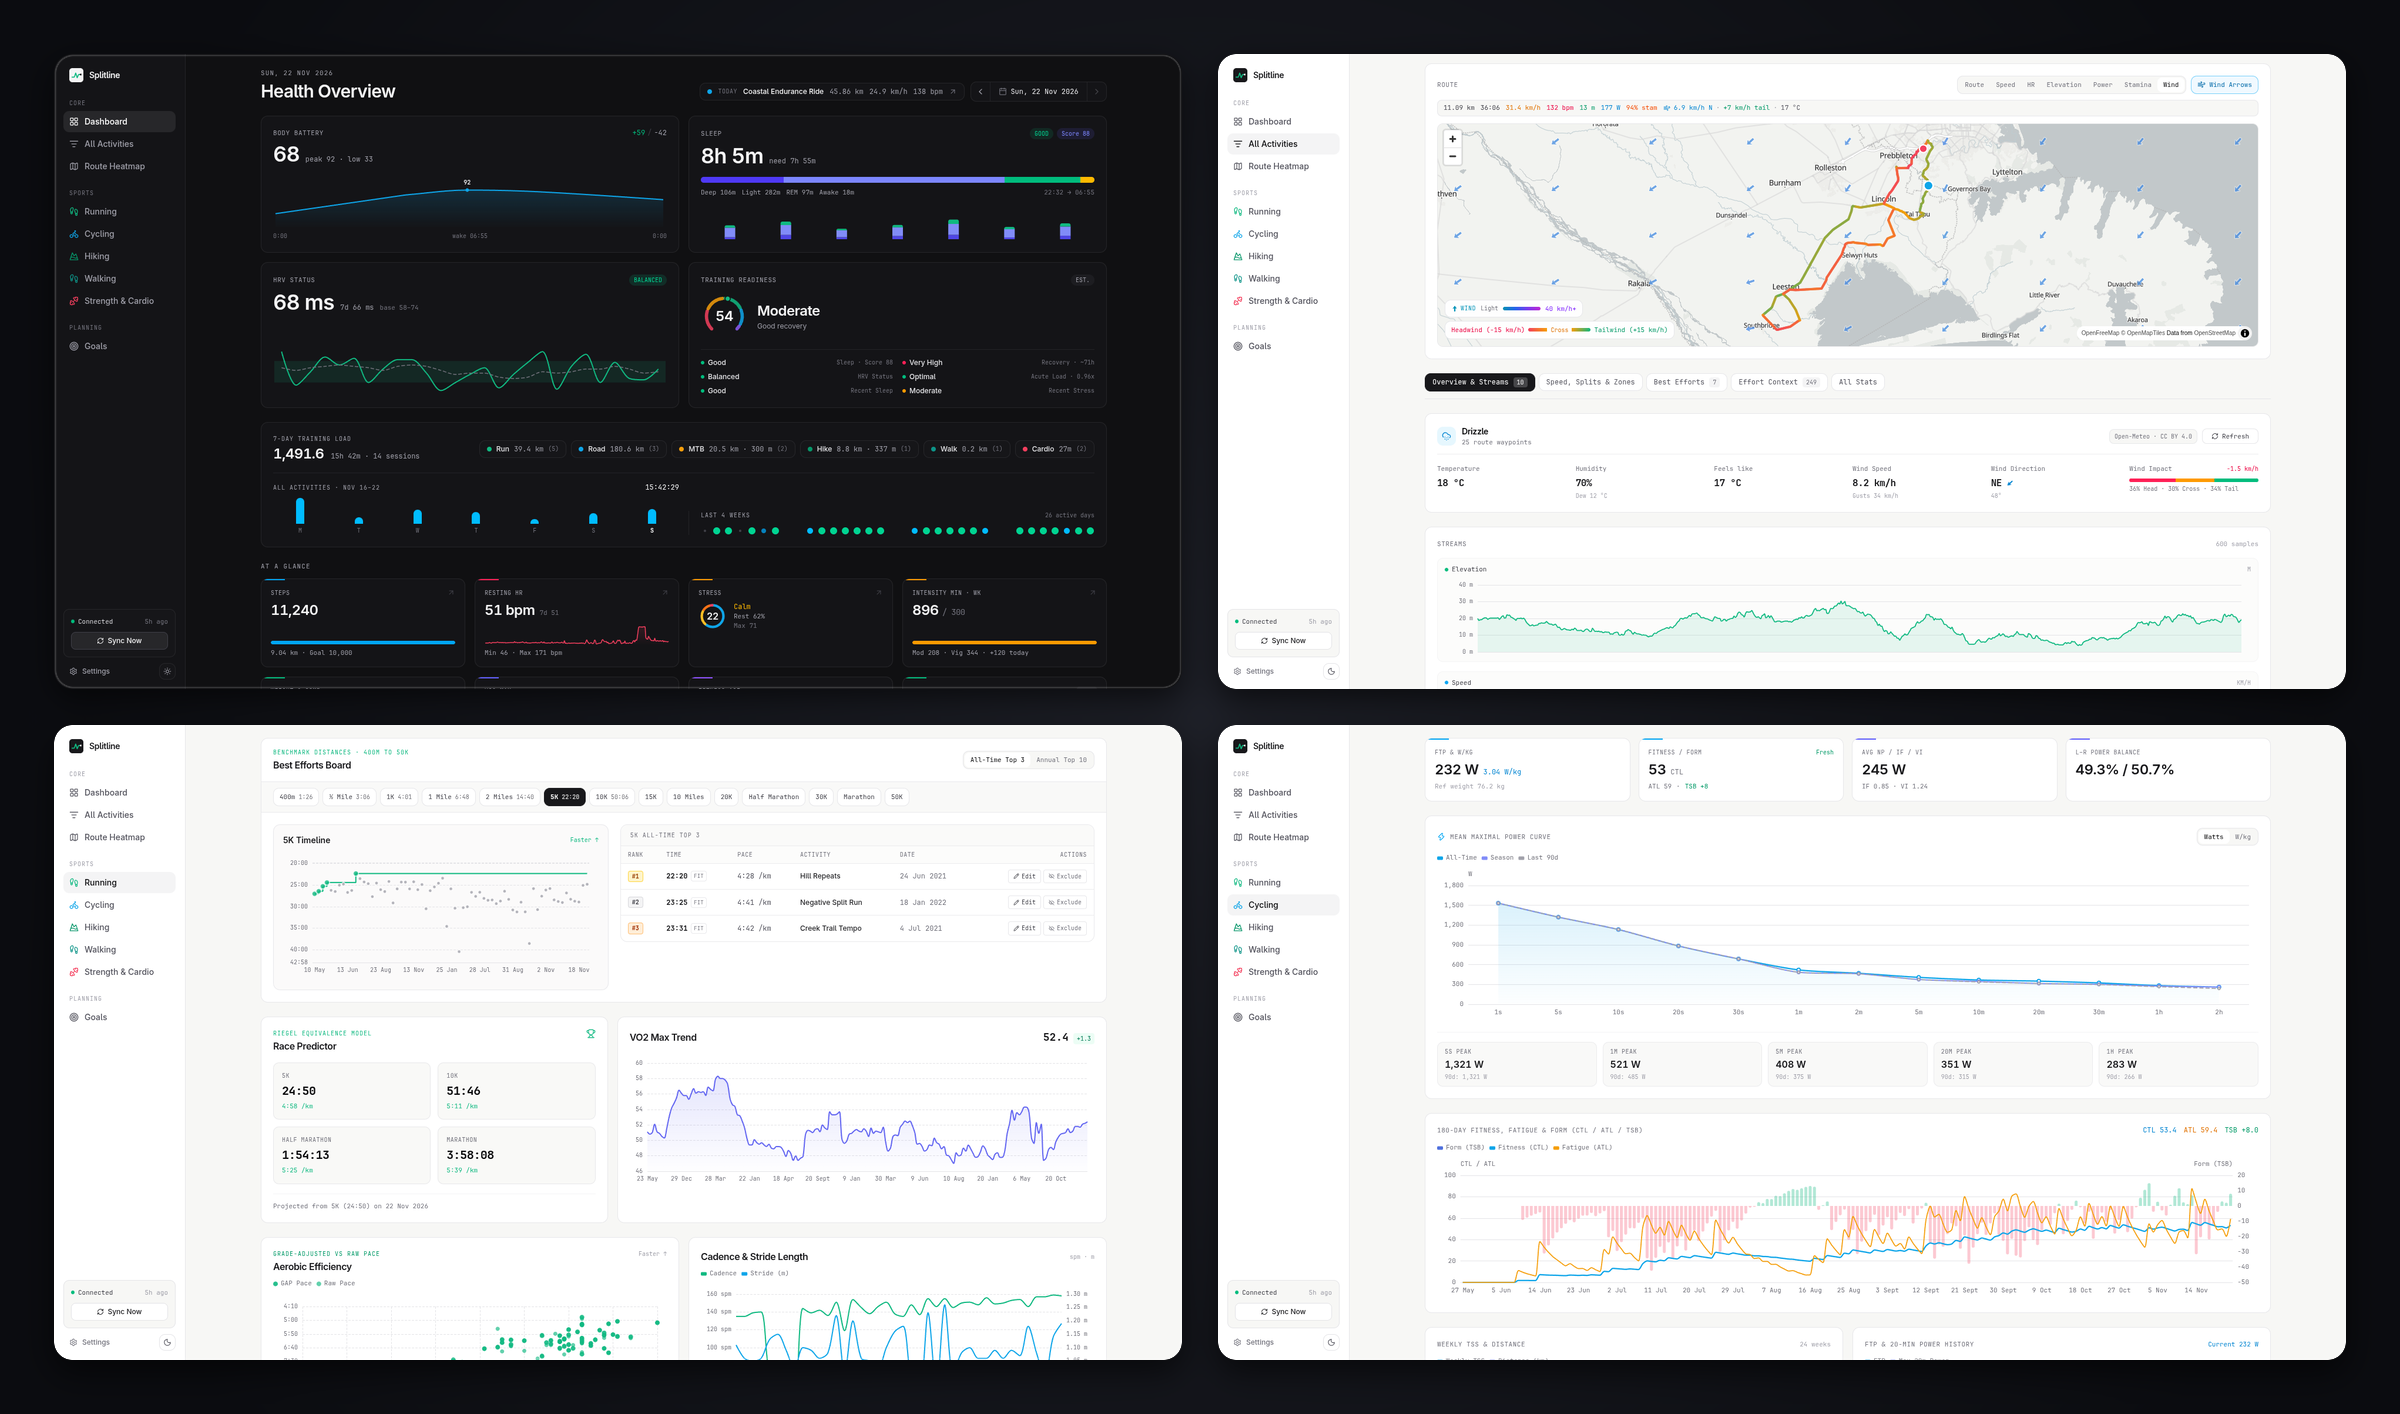
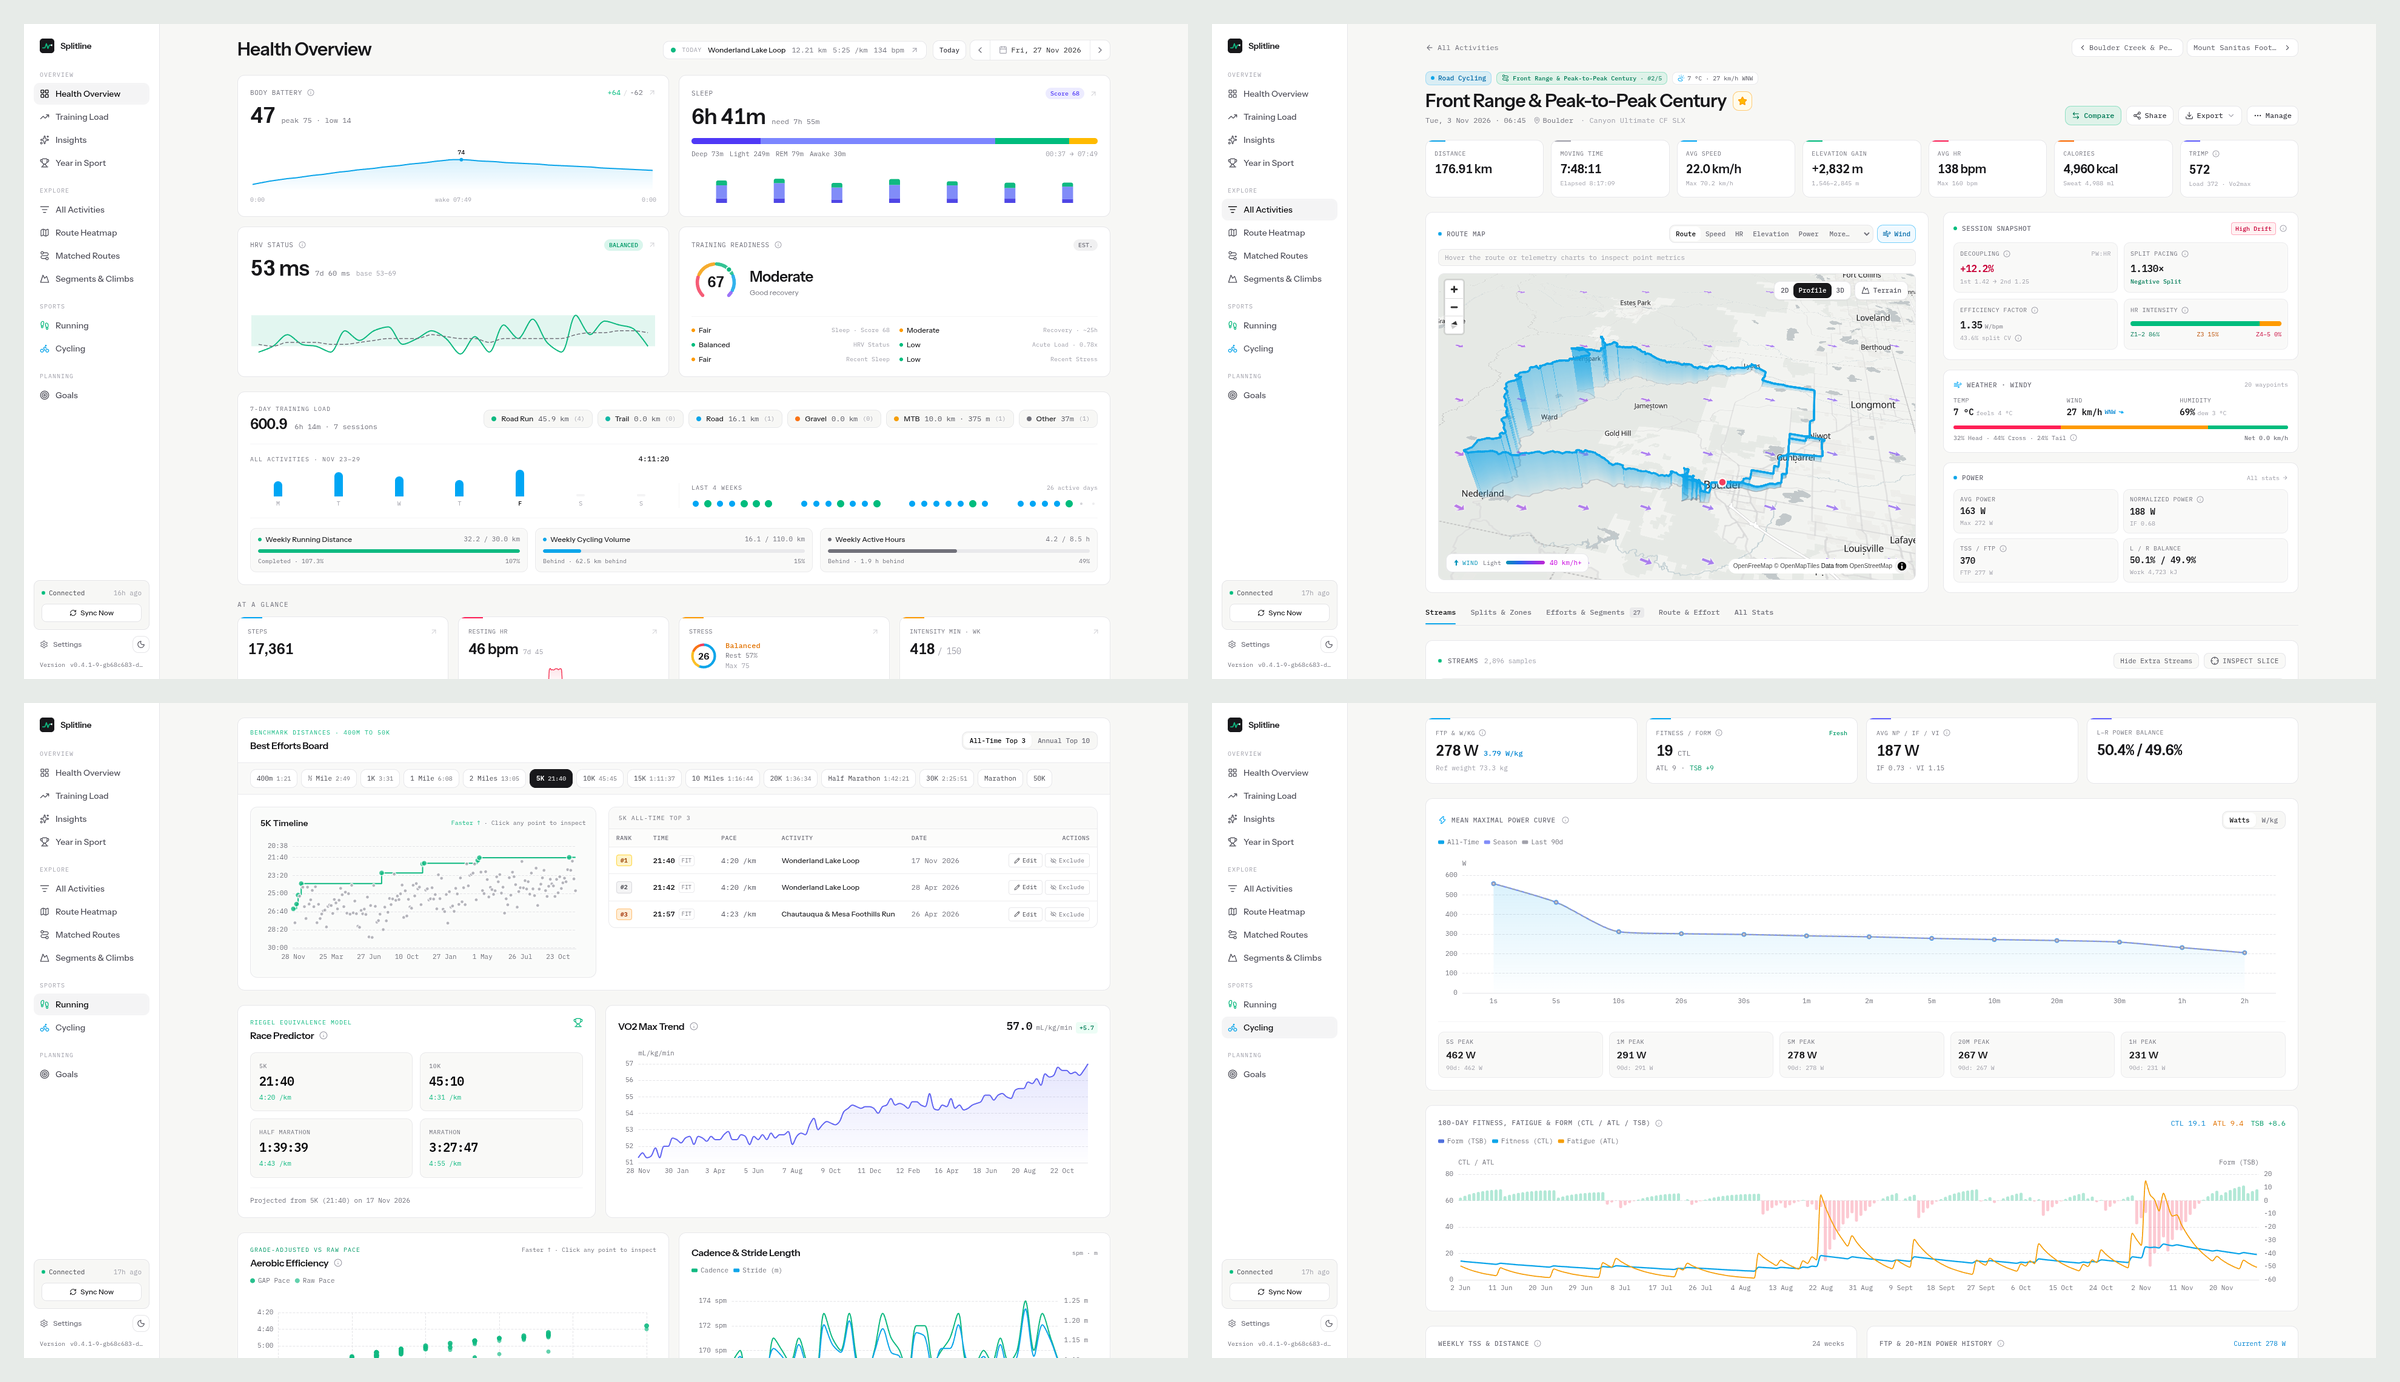
docs(screenshots): replace personal screenshots with Boulder demo captures

diff --git a/docs/screenshots/README.md b/docs/screenshots/README.md
@@ -1,93 +1,153 @@
 # Screenshots
 
-All screenshots below were captured at `1920×1080` using randomized demo health and activity data.
+Screenshots are captured at `1920×1080` against the synthetic **Boulder, Colorado** demo database built by `php artisan demo:seed`. It uses real OpenStreetMap routes, real terrain elevation, real historical weather, and physics-based telemetry, and contains no personal data. The hero collage (`00-hero.png`) is the image featured in the root README.
 
-## Overview & Daily Health
+## Overview & Health
 
-### Health Overview (Light)
+### Health Overview — Light
 
-![Health Overview (Light)](01-dashboard.png)
+![Health Overview — In Focus bento grid and 7-day training load](01-dashboard-top.png)
 
-### Health Overview (Dark)
+![Health Overview — At a Glance and annual activity summary](02-dashboard-bottom.png)
 
-![Health Overview (Dark)](02-dashboard-dark.png)
+### Health Overview — Dark
+
+![Health Overview — dark mode](03-dashboard-dark.png)
 
 ### Sleep Trends & Stages
 
-![Sleep Trends & Stages](03-health-sleep.png)
+![Sleep trends and stages](04-health-sleep.png)
 
-### All Activities
+## Fitness, Insights & Recap
 
-![All Activities](04-activities.png)
+### Training Load & Form
 
-## Running Hub
+![Training Load & Form — Performance Management Chart](05-fitness-load.png)
 
-### Volume & HR Zone Polarization
+### Health & Performance Insights
 
-![Running Hub — Volume & HR Zones](05-running-hub.png)
+![Insights — headline findings, sleep and HRV panels](06-insights-top.png)
 
-### Best Efforts Board, 5K Timeline & Race Predictor
+![Insights — temperature, wind, and overnight recovery](07-insights-weather-recovery.png)
 
-![Running Hub — Best Efforts & Race Predictor](06-running-hub-efforts.png)
+![Insights — day-of-week and time-of-day patterns](08-insights-patterns.png)
 
-### Aerobic Efficiency, Cadence & Run/Walk Breakdown
+### Year in Sport
 
-![Running Hub — Aerobic Efficiency & Cadence](07-running-hub-efficiency.png)
+![Year in Sport — headline KPIs, monthly momentum, and sport mix](09-recap-top.png)
 
-## Cycling, MTB & Road Hubs
+![Year in Sport — consistency, peak moments, records, and routes](10-recap-highlights.png)
 
-### Cycling Overview & Reclassification Inbox
+## Activities, Heatmap, Routes & Segments
 
-![Cycling Overview](08-cycling-overview.png)
+### All Activities — Calendar
 
-### Mountain Biking — Volume & HR Zones
+![November 2026 activity calendar](11-activities-calendar.png)
 
-![Mountain Biking Hub](09-mtb-hub.png)
+### Route Heatmap
 
-### Mountain Biking — Climbing, Grit, Flow & Jumps
+![Route heatmap — Boulder Front Range in tilted 3D terrain view](12-heatmap.png)
 
-![Mountain Biking — Trail Dynamics](10-mtb-hub-trails.png)
+### Matched Routes
 
-### Road Cycling — Volume & HR Zones
+![Matched routes overview](13-routes-overview.png)
 
-![Road Cycling Hub](11-road-hub.png)
+![Flagstaff Mountain Climb — matched route detail and weather impact](14-route-detail.png)
 
-### Road Cycling — FTP, Power Curve & 180-Day CTL/ATL/TSB
+### Segments & Climbs
 
-![Road Cycling — Power & Fitness](12-road-hub-power.png)
+![Segments and climbs overview](15-segments-overview.png)
 
-### Road Cycling — Weekly TSS, FTP History & Power Zones
+![Flagstaff Road Climb — detail, effort progression, and elevation profile](16-segment-detail.png)
 
-![Road Cycling — TSS & Power Zones](13-road-hub-zones.png)
+![Flagstaff Road Climb — personal leaderboard](17-segment-leaderboard.png)
 
-## Activity Telemetry & Maps
+### Activity Comparison
 
-### Running Activity — Pace Route & Running Dynamics
+![Side-by-side comparison of two Flagstaff Mountain Climb rides](18-activity-compare.png)
 
-![Running Activity — Pace Route](14-activity-running.png)
+## Running Hub & Activity
 
-### Running Activity — Historical Weather & FIT Telemetry Streams
+### Running Overview
 
-![Running Activity — Streams](15-activity-running-streams.png)
+![Running hub — discipline summaries, goals, and weekly volume](19-running-hub-1-overview.png)
 
-### Mountain Biking Activity — Flow Route & Trail Dynamics
+![Road running hub — best efforts board, race predictor, and VO2 max trend](20-running-hub-2-zones-efforts.png)
 
-![Mountain Biking Activity — Flow Route](16-activity-mtb.png)
+![Road running hub — running dynamics and Eddington](21-running-hub-3-dynamics-eddington.png)
 
-### Mountain Biking Activity — Streams & Detected Jumps
+### Chautauqua & Mesa Foothills Run
 
-![Mountain Biking Activity — Jumps](17-activity-mtb-jumps.png)
+![Running activity — Profile route with live hover telemetry](22-activity-run-hero.png)
 
-### Road Cycling Activity — Power Route & Summary
+![Running activity — telemetry streams](23-activity-run-streams.png)
 
-![Road Cycling Activity — Power Route](18-activity-road.png)
+![Running activity — splits and zones](24-activity-run-splits-zones.png)
 
-### Road Cycling Activity — Wind Route Overlay, Wind Arrows & Weather Breakdown
+![Running activity — best efforts and matched segments](25-activity-run-efforts-segments.png)
 
-![Road Cycling Activity — Wind Map](19-activity-road-wind.png)
+![Running activity — route and effort context](26-activity-run-context.png)
 
-## Settings
+![Running activity — all stats](27-activity-run-stats.png)
+
+## Cycling, Road & MTB Hubs and Activities
+
+### Cycling Overview
+
+![Cycling hub — discipline summaries and weekly volume](28-cycling-overview.png)
+
+### Road Cycling Overview
+
+![Road cycling hub — overview](29-road-hub-1-overview.png)
+
+![Road cycling hub — zones and aerobic efficiency](30-road-hub-2-zones-efficiency.png)
+
+![Road cycling hub — power curve and fitness](31-road-hub-3-power-fitness.png)
+
+![Road cycling hub — TSS, power zones, and efforts](32-road-hub-4-tss-zones-efforts.png)
+
+### Front Range & Peak-to-Peak Century
+
+![Road activity — Profile and Wind map with live hover telemetry](33-activity-road-hero-wind.png)
+
+![Road activity — telemetry streams](34-activity-road-streams.png)
+
+![Road activity — splits and zones](35-activity-road-splits-zones.png)
+
+![Road activity — best efforts and matched segments](36-activity-road-efforts-segments.png)
+
+![Road activity — route and effort context](37-activity-road-context.png)
+
+![Road activity — all stats](38-activity-road-stats.png)
+
+### Mountain Biking Overview
+
+![Mountain biking hub — overview and weekly volume](39-mtb-hub-1-overview.png)
+
+![Mountain biking hub — climbing and off-road dynamics](40-mtb-hub-2-climbing-offroad.png)
+
+### Betasso Preserve Canyon Loop
+
+![MTB activity — 3D Speed route with Jump #1 tooltip](41-activity-mtb-hero-3d-jump.png)
+
+![MTB activity — telemetry streams and detected jumps](42-activity-mtb-streams-jumps.png)
+
+![MTB activity — splits and zones](43-activity-mtb-splits-zones.png)
+
+![MTB activity — efforts and matched segments](44-activity-mtb-efforts-segments.png)
+
+![MTB activity — all stats](45-activity-mtb-context-stats.png)
+
+## Gear, Goals & Settings
+
+### Gear
+
+![Gear — bikes and shoes with logged mileage](46-gear.png)
+
+### Goals & Streaks
+
+![Goals and streaks](47-goals.png)
 
 ### Appearance, Units & Sports Configuration
 
-![Settings](20-settings.png)
+![Settings](48-settings.png)
